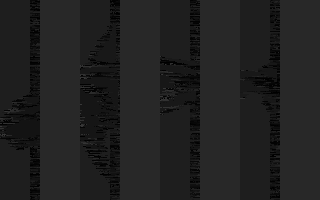
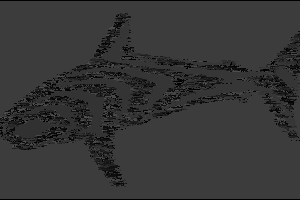
patch based stuff looks slightly better, but woder why there is so much noise... going to try a few things and move on

diff --git a/DeMagicEye.py b/DeMagicEye.py
@@ -3,12 +3,13 @@ import numpy as np
 img = Image('shark.png')
 img = img.scale(0.5)
 # roughly the number of tiles in an image
-repeats = 5
+
 # roughly how far we scan horizontally
-window = img.width/repeats
+window = 100 #int(img.width/repeats)
+repeats = np.floor(img.width/window)
 print "window: {0}".format(window)
 # how big of a signal we convolve 
-samplesz = window / 4
+samplesz = window / 10
 print "sample: {0}".format(samplesz)
 dmap = np.zeros([img.width-window,img.height])
 
@@ -16,29 +17,27 @@ dmap = np.zeros([img.width-window,img.height])
 # proof of concept.
 print (img.width,img.height)
 npgImg = img.getGrayNumpy()
-for vidx in range(0,img.height):
+for vidx in range(1,img.height-1):
     print "row {0}".format(vidx)
     for hidx in range(0,img.width-window):
         #get our sample
-        currentWndw = np.floor(hidx/float(window))
-        if( currentWndw >= repeats-1 ):
-            continue
-
+        #currentWndw = np.floor(hidx/float(window))
+        #if( currentWndw == repeats-1 ):
+        #    break
         sample = npgImg[hidx:hidx+samplesz,vidx]
         vals = []
-        #print "hidx: {0}".format(hidx)
-        #print "currentidx {0} / sz: {1}".format(currentWndw,window)
-        
-        for sidx in range(0,window-samplesz):
-
-            step = int(((currentWndw+1)*window)-(window/2))
-            #print "searching: {0}->{1}".format(step+sidx,step+sidx+samplesz)
-            tester = npgImg[step+sidx:step+sidx+samplesz,vidx]
-            vals.append( np.abs(np.sum(sample-tester)))
-        #print vals
+        #step = int((((currentWndw+1)*window)))
+        for sidx in range(samplesz,window-samplesz):
+            tester0 = npgImg[hidx+sidx:hidx+sidx+samplesz,vidx-1]
+            tester1 = npgImg[hidx+sidx:hidx+sidx+samplesz,vidx]
+            tester2 = npgImg[hidx+sidx:hidx+sidx+samplesz,vidx+1]
+            v0 = np.abs(np.sum(sample-tester0))
+            v1 = np.abs(np.sum(sample-tester1))
+            v2 = np.abs(np.sum(sample-tester2))
+            vals.append(np.min([v0,v1,v2]))
         best = np.where(np.array(vals)==np.min(vals))[0]
         # offset is the hidx of the current window
-        offset = hidx - (currentWndw*window)
+        offset = 0 #hidx - (currentWndw*window)
         dmap[hidx][vidx] = np.abs(best[0]-offset)
         #print dmap
 print dmap                     
